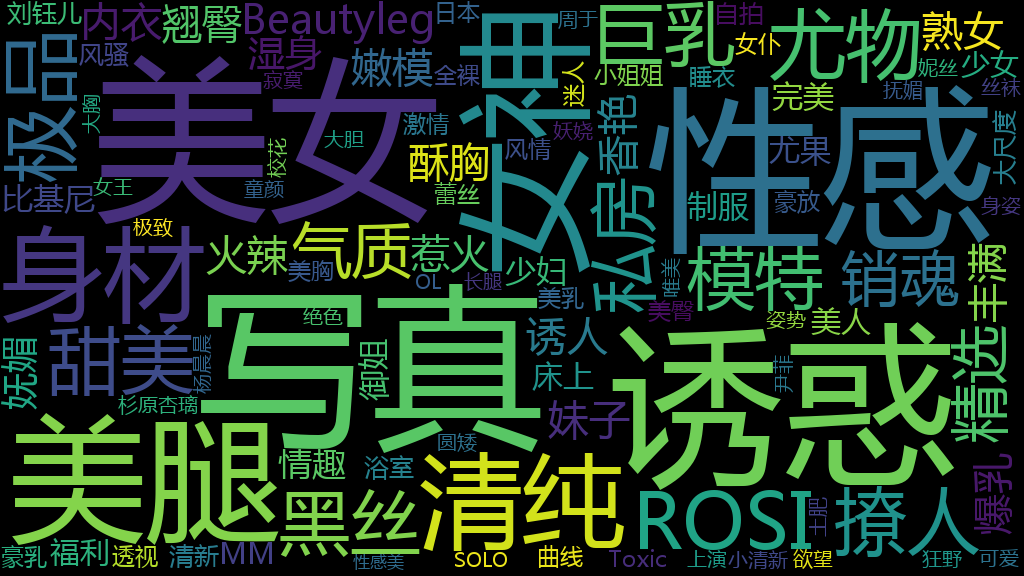
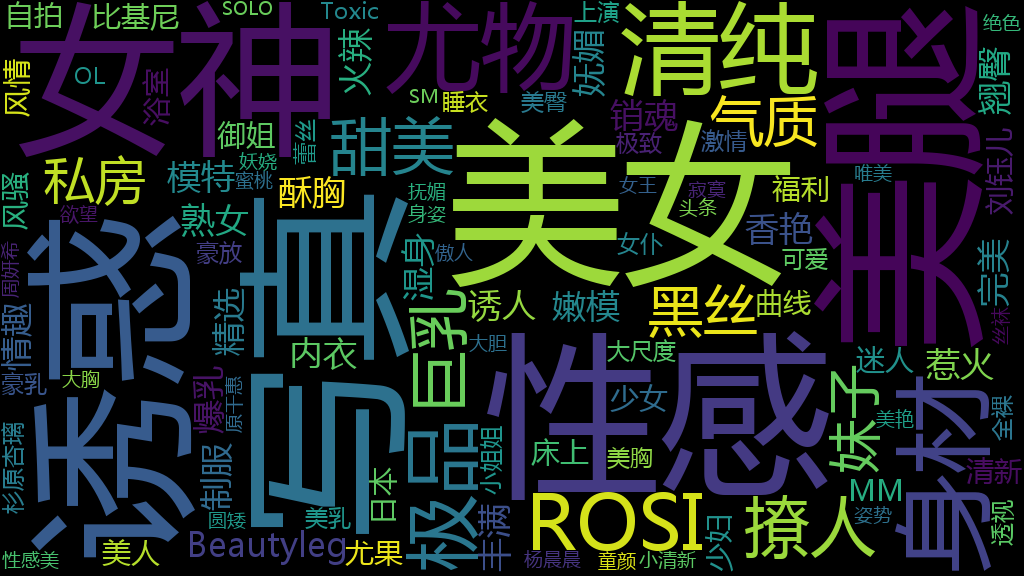
重新生成热词统计

diff --git a/analysis/wc_generator.py b/analysis/wc_generator.py
@@ -16,8 +16,13 @@ def generate(text):
     # 删除不必要分词
     [jieba.del_word(k) for k in ['十足', '令人', '尽显', '演绎']]
 
-    # 取Top100的词生成词云
     # https://github.com/fxsjy/jieba#基于-tf-idf-算法的关键词抽取
+    # 取Top30，生成直方图，返回是一个Tuple列表，其中权重以小数表示
+    tags = analyse.extract_tags(text, topK=30, withWeight=True, )
+    # 为了便于计算，将权重乘以100转换为百分数，方便使用Excel生成图表
+    [print(item[0], '\t', int(item[1] * 100)) for item in tags]
+
+    # 取Top100的词生成词云
     tags = analyse.extract_tags(text, topK=100, withWeight=False)
     new_text = ' '.join(tags)
     print(new_text)

diff --git a/README.md b/README.md
@@ -1,32 +1,22 @@
-# 美女写真套图爬虫（二）
+## 原作README：<https://github.com/chenjiandongx/mzitu>
 
-### 传送门：[美女写真套图爬虫（一）](https://github.com/chenjiandongx/mmjpg)  
 
-爬取网站 : [http://www.mzitu.com](http://www.mzitu.com)  
+## 词频统计
+> 只是重新实现了爬虫并重新计算的数据，仅作练习使用，请勿与原版进行非技术性对比
 
-爬取全站 3000 多套图片，整整 **10** 个G  
+热词Top30分布
 
-![](./images/mzitu_1.png)
+![](./assets/images/热词Top30柱状图.png)  
+![](./assets/images/热词Top30饼状图.png)  
 
-有图有真相  
+热词Top100生成词云
 
-![](./images/mzitu_3.png)  
+![](./assets/images/wc.png)  
 
-共 **79076** 张图片，假设你在每张图片上停留的时间为 **2** 秒，你需要连续看 **2636** 分钟，也就是 **43.9** 个小时才能看完。身体要紧不能太拼命！  
+## 胸围统计
+> 网站上并未直接提供该，通过专辑标题中的关键字来计算各单位数量，并生成图表
 
-![](./images/kidding.png)  
-
-以为这样就完了？
-> too young too simple sometimes naive!    
-
-![](./images/no.png)  
-
-我对套图名字产生了兴趣 将套图名分词后统计词频并进行处理 对词频数超过 100 的词语生成条形图
-
-![](./images/counter.png)  
-
-看来命名也就要讲究技巧的 名字一定要足够吸引眼球   
-**性感** **写真** **美女** **诱惑** **妹子** 这五个词拿下前五名 得票均超过 300，**美腿** **清纯** **女神** 紧跟其后，岛国 **日本** 也出现在其中，**嫩模** 以 102 票搭上了末班车 
+实际分析了专辑名称，发现样本太少（大部分并不含罩杯信息），，所以沿用原作者的结果，以下是原作者的分析结果
 
 然后我又统计了代表着妹子胸围的 **字母** 生成了条形图
 
@@ -37,23 +27,5 @@
 ![](./images/piechart.png)  
 
 G 的比例是最大的，高达 **42%**，E 加上 F 也基本上有半壁江山了
-
-![](./images/shy.jpg)  
-
-视觉冲击还不够大？ 那来一张词云吧
-
-![](./assets/images/wc.png)  
-
-
-这图真的不忍直视阿  
-
-![](./images/taolu.jpg)  
-
-  
-最后请允许我真心说一句  
-
-![](./images/forkstar.png)  
-
-
 
 
